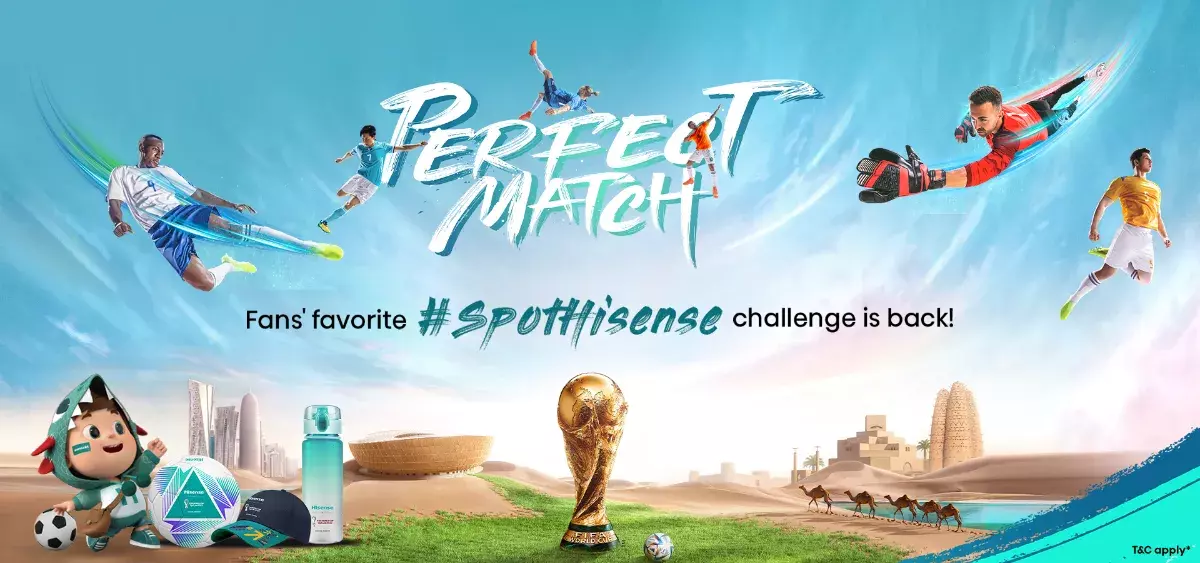
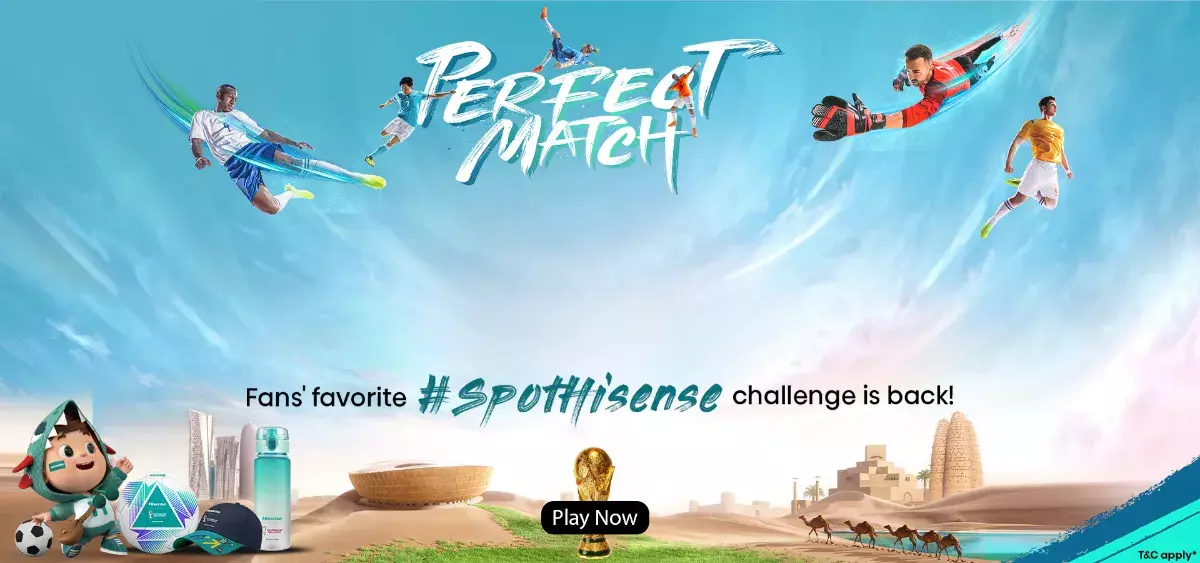
fifa page changes

diff --git a/src/app/pages/fifa-event/fifa-event.component.html b/src/app/pages/fifa-event/fifa-event.component.html
@@ -30,7 +30,7 @@
         </div>
     </div>
     <section *ngIf="currentTab == 'About FIFA 2022'" style="margin-top: 10px;">
-        <section class="countdown__wrapper">
+        <!-- <section class="countdown__wrapper">
             <div class="countdown__container">
                 <div>
                     <h3 class="f-24">
@@ -83,7 +83,7 @@
                     </div>
                 </div>
             </div>
-        </section>
+        </section> -->
         <section class="groups">
             <div class="card" *ngFor="let group of groups">
                 <div class="card__heading">{{group.heading}}</div>

diff --git a/src/app/pages/fifa-event/fifa-event.component.ts b/src/app/pages/fifa-event/fifa-event.component.ts
@@ -30,7 +30,7 @@ export class FifaEventComponent implements OnInit {
       redirectTo: null
     },
     {
-      mobile_image_full_url: `assets/spot-hisense.webp`,
+      mobile_image_full_url: `assets/spot-hisense-mobile-banner-with-button.webp`,
       desktop_image_full_url: `assets/spot-hisense.webp`,
       redirectTo: '/FIFA-2022/participate'
     },

diff --git a/src/app/pages/fifa-event/fifa-event.component.scss b/src/app/pages/fifa-event/fifa-event.component.scss
@@ -214,6 +214,10 @@ svg {
     cursor: pointer;
 }
 
+.swiper-pagination{
+    bottom: 0px !important;
+}
+
 .swiper-pagination-bullet {
     color: #09cbc6 !important;
     border: none !important;
